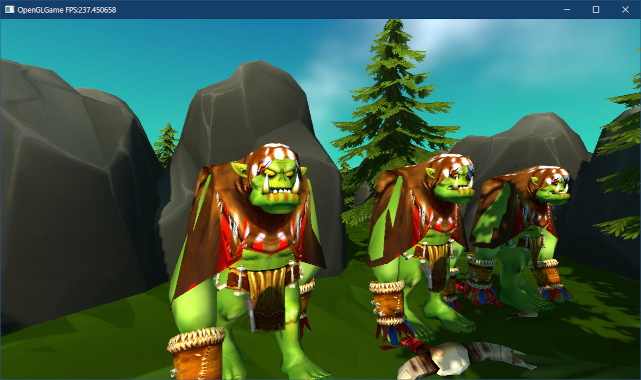
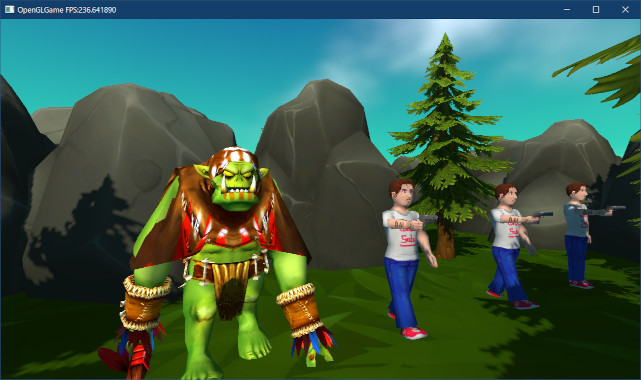
オークシャーマンを追加する際、男性モデルのアニメーションを変更しない

diff --git a/OpenGL3D_2023_20.md b/OpenGL3D_2023_20.md
@@ -1345,7 +1345,9 @@
 
 プログラムが書けたらビルドして実行してください。どのアニメーションを再生しても、右手を前に上げた状態になっていたら成功です。
 
-### 2.6 スキンメッシュをスタティックメッシュに変換する
+## 3. スキンメッシュをOBJファイルに変換する
+
+### 3.1 スキンメッシュをスタティックメッシュに変換する
 
 アセットストアで販売されているキャラクターモデルは、ほぼ例外なく「スキンメッシュ」となっています。しかし、`Scene OBJ Exporter`は「スタティックメッシュ」にしか対応していません。
 
@@ -1438,7 +1440,7 @@ OpenGLプロジェクトの<code>Res/MeshData</code>フォルダに<code>OrcSham
 ファイル名は<code>OrcShaman.obj</code>としなさい。
 </pre>
 
-### 2.7 オークシャーマンを表示する
+### 3.2 オークシャーマンを表示する
 
 とりあえず、男性モデル用のスケルトンをコピーして、オークシャーマンをアニメーションさせてみましょう。`Engine.cpp`を開き、`human_male.obj`を読み込むプログラムの下に、次のプログラムを追加してください。
 
@@ -1464,25 +1466,35 @@ OpenGLプロジェクトの<code>Res/MeshData</code>フォルダに<code>OrcSham
    meshBuffer->LoadOBJ("Res/MeshData/skull/skull_highpoly_with_normal.obj");
 ```
 
-次に`Exploration.cpp`を開き、`Initialize`メンバ関数の定義を次のように変更してください。
+次に`Exploration.cpp`を開き、`Initialize`メンバ関数の定義にある「テスト用のスケルタルメッシュを配置」するプログラムの下に、次のプログラムを追加してください。
 
 ```diff
-     auto skeletal = engine.Create<GameObject>("joint test", pos);
-     skeletal->renderer = std::make_shared<SkeletalMeshRenderer>();
-     skeletal->renderer->SetMesh(
--      engine.GetSkeletalMesh("Res/MeshData/human_male.obj"));
+     weapon->staticMesh = engine.GetStaticMesh(
+       "Res/MeshData/Low Poly Weapons VOL.1/M1911.obj");
+     weapon->SetParentAndJoint(skeletal, 2);
+   }
++
++  { // オークシャーマンを配置
++    auto orcShaman = engine.Create<GameObject>("OrcShaman", { -3, 0.5f, -4 });
++    orcShaman->renderer = std::make_shared<SkeletalMeshRenderer>();
++    orcShaman->renderer->SetMesh(
 +      engine.GetSkeletalMesh("Res/MeshData/OrcShaman/OrcShaman.obj"));
-     skeletal->AddComponent<AnimationChanger>();
-     auto a = skeletal->AddComponent<Animator>();
++    orcShaman->AddComponent<AnimationChanger>();
++    auto a = orcShaman->AddComponent<Animator>();
++    a->AddClip("walk", clipWalk);
++    a->Play("walk");
++  }
+   return true;
+ }
 ```
 
-プログラムが書けたらビルドして実行してください。男性の代わりにオークシャーマンが表示されていたら成功です。
+プログラムが書けたらビルドして実行してください。男性の左隣にオークシャーマンが表示されていたら成功です。
 
 <p align="center">
 <img src="images/20_result_3.jpg" width="45%" />
 </p>
 
-人間の男性用に用意したスケルトンなのであちこちに変なところはありますが、一応アニメーションはできているようです。それでは、オークシャーマンの合わせてスケルトンとアニメーションを調整しましょう。
+一応のアニメーションはできているようですが、人間の男性用に用意したスケルトンなのでところどころおかしな部分があります。フードが肩にめり込んでいたり、足の付根の位置がおかしかったり...。そこで、オークシャーマン用にスケルトンとアニメーションを調整しましょう。
 
 スケルトンを調整するには関節の位置を調べます。Unityエディタを開いてオークシャーマンを表示してください。上部のグリッド表示パネルをクリックして設定ウィンドウを開き、`Grid Plane`を`Z`に、`Opacity`を右端に設定してください。
 
@@ -1536,37 +1548,61 @@ OpenGLプロジェクトの<code>Res/MeshData</code>フォルダに<code>OrcSham
 <img src="images/20_result_4.jpg" width="45%" />
 </p>
 
-ただ、オークシャーマンで両腕を真下にさげるのはやりすぎなようです。`ExplorationScene.cpp`を開き、`Initialize`メンバ関数の定義にある`kfArmR`配列と`kfArmL`配列の値を次のように変更してください。
+それから、歩行アニメーションは両腕を下げすぎているようです。オークシャーマン用の歩行アニメーションクリップを作成して、アニメーションを改良しましょう。
+
+`ExplorationScene.cpp`を開き、`Initialize`メンバ関数の定義にある「待機アニメーションクリップ」を作成するプログラムの下に、次のプログラムを追加してください。両腕のアニメーションカーブは、男性モデルのものをコピーすると簡単です。
 
 ```diff
-   // 右腕を下ろして前後に回転させるカーブ
-   static const Keyframe kfArmR[] = {
--    {0.0f, vec3( 0.0f, 0, 1.57f)},  // 初期位置
--    {0.5f, vec3( 0.5f, 0, 1.57f)},  // 後ろに振る
--    {1.5f, vec3(-0.5f, 0, 1.57f)},  // 前に降る
--    {2.0f, vec3( 0.0f, 0, 1.57f)} };// 初期位置に戻る
-+    {0.0f, vec3( 0.0f, 0, 1.17f)},  // 初期位置
-+    {0.5f, vec3( 0.5f, 0, 1.17f)},  // 後ろに振る
-+    {1.5f, vec3(-0.5f, 0, 1.17f)},  // 前に降る
-+    {2.0f, vec3( 0.0f, 0, 1.17f)} };// 初期位置に戻る
-   auto curveArmR = std::make_shared<AnimationCurve>();
-   curveArmR->AddKey(std::begin(kfArmR), std::end(kfArmR));
+     curveArmFrontR->AddKey(0.0f, vec3(radians(-90), 0, radians(90)));
+     clipShot->AddCurve(2, AnimationTarget::rotation, curveArmFrontR);
+     clipShot->SetLoopFlag(true); // ループする
+   }
++
++  // オークの歩行
++  auto clipOrcWalk = std::make_shared<AnimationClip>();
++  {
++    // 右腕を下ろして前後に回転させるカーブ
++    static const Keyframe kfArmR[] = {
++      {0.0f, vec3( 0.0f, 0, 1.17f)},  // 初期位置
++      {0.5f, vec3( 0.5f, 0, 1.17f)},  // 後ろに振る
++      {1.5f, vec3(-0.5f, 0, 1.17f)},  // 前に降る
++      {2.0f, vec3( 0.0f, 0, 1.17f)} };// 初期位置に戻る
++    auto curveArmR = std::make_shared<AnimationCurve>();
++    curveArmR->AddKey(std::begin(kfArmR), std::end(kfArmR));
++
++    // 左腕を下ろして前後に回転させるカーブ
++    static const Keyframe kfArmL[] = {
++      {0.0f, vec3( 0.0f, 0, -1.17f)},  // 初期位置
++      {0.5f, vec3(-0.5f, 0, -1.17f)},  // 前に降る
++      {1.5f, vec3( 0.5f, 0, -1.17f)},  // 後ろに振る
++      {2.0f, vec3( 0.0f, 0, -1.17f)} };// 初期位置に戻る
++    auto curveArmL = std::make_shared<AnimationCurve>();
++    curveArmL->AddKey(std::begin(kfArmL), std::end(kfArmL));
++
++    clipOrcWalk->AddCurve(0, AnimationTarget::position, curveBody);
++    clipOrcWalk->AddCurve(2, AnimationTarget::rotation, curveArmR);
++    clipOrcWalk->AddCurve(3, AnimationTarget::rotation, curveArmL);
++    clipOrcWalk->AddCurve(4, AnimationTarget::rotation, curveLegR);
++    clipOrcWalk->AddCurve(5, AnimationTarget::rotation, curveLegL);
++    clipOrcWalk->SetLoopFlag(true);
++  }
 
-   // 左腕を下ろして前後に回転させるカーブ
-   static const Keyframe kfArmL[] = {
--    {0.0f, vec3( 0.0f, 0, -1.57f)},  // 初期位置
--    {0.5f, vec3(-0.5f, 0, -1.57f)},  // 前に降る
--    {1.5f, vec3( 0.5f, 0, -1.57f)},  // 後ろに振る
--    {2.0f, vec3( 0.0f, 0, -1.57f)} };// 初期位置に戻る
-+    {0.0f, vec3( 0.0f, 0, -1.17f)},  // 初期位置
-+    {0.5f, vec3(-0.5f, 0, -1.17f)},  // 前に降る
-+    {1.5f, vec3( 0.5f, 0, -1.17f)},  // 後ろに振る
-+    {2.0f, vec3( 0.0f, 0, -1.17f)} };// 初期位置に戻る
-   auto curveArmL = std::make_shared<AnimationCurve>();
-   curveArmL->AddKey(std::begin(kfArmL), std::end(kfArmL));
+   // テスト用のスケルタルメッシュを設定
+   for (float i = 0; i < 3; ++i) {
 ```
 
-プログラムが書けたらビルドして実行してください。両腕が少し開いて、変更前よりも自然な動きに見えていたら成功です。
+両腕のアニメーションカーブのZ軸回転を`1.37`から`1.17`に変更した以外は、男性モデルの歩行アニメーションと同じです。次に、オークシャーマンを配置するプログラムを次のように変更してください。
+
+```diff
+     orcShaman->AddComponent<AnimationChanger>();
+     auto a = orcShaman->AddComponent<Animator>();
+-    a->AddClip("walk", clipWalk);
++    a->AddClip("walk", clipOrcWalk);
+     a->Play("walk");
+   }
+```
+
+プログラムが書けたらビルドして実行してください。両腕が少し開いたことで、変更前よりも自然な動きに見えていたら成功です。
 
 <p align="center">
 <img src="images/20_result_5.jpg" width="45%" />
